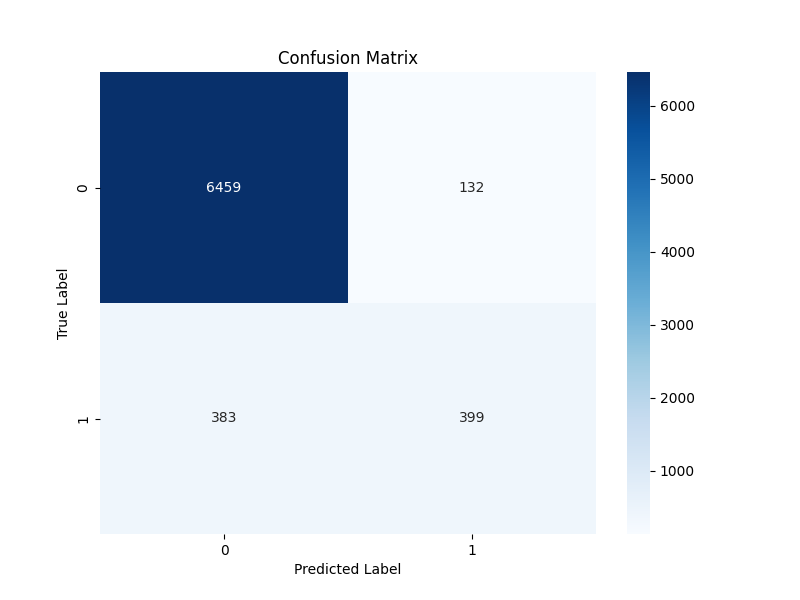
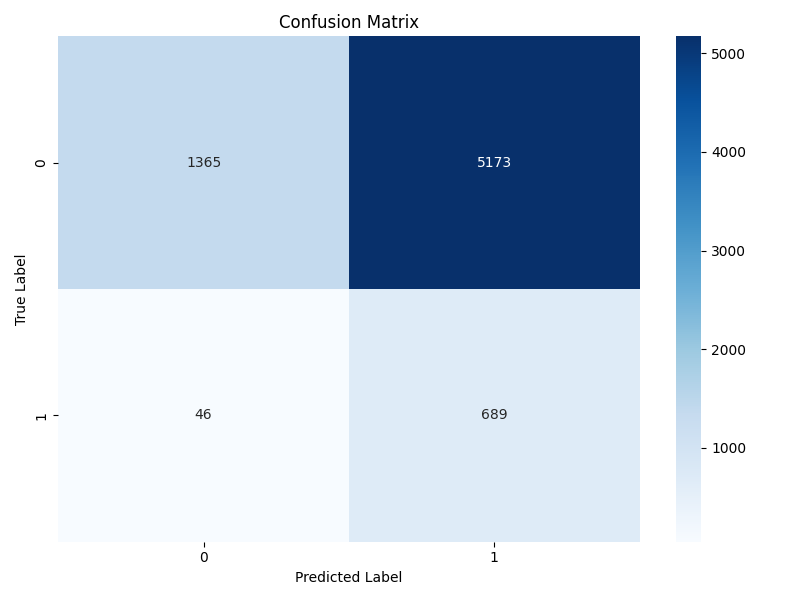
roe

diff --git a/src/logistic_regression_model.py b/src/logistic_regression_model.py
@@ -1,51 +1,125 @@
 import pandas as pd
 import numpy as np
+from sklearn.model_selection import train_test_split
 from sklearn.linear_model import LogisticRegression
+from sklearn.preprocessing import StandardScaler
+from sklearn.impute import SimpleImputer
 from sklearn.metrics import classification_report, confusion_matrix, roc_curve, auc
 import matplotlib.pyplot as plt
 import seaborn as sns
 import os
 
-def train_and_evaluate_model():
-    # Set up absolute paths
-    base_dir = os.path.dirname(os.path.dirname(os.path.abspath(__file__)))
-    data_dir = os.path.join(base_dir, 'data')
-    processed_dir = os.path.join(data_dir, 'processed')
-    figures_dir = os.path.join(base_dir, 'figures')
+# Set paths
+BASE_DIR = '/Users/kevinklatman/Development/Code/ai'
+DATA_DIR = os.path.join(BASE_DIR, 'data')
+FIGURES_DIR = os.path.join(BASE_DIR, 'figures')
+
+# Create figures directory if it doesn't exist
+os.makedirs(FIGURES_DIR, exist_ok=True)
+
+def load_and_prepare_data():
+    """Load the historical features dataset and prepare it for modeling."""
+    # Load data
+    df = pd.read_csv(os.path.join(DATA_DIR, 'pga_tour_historical.csv'))
     
-    # Create figures directory if it doesn't exist
-    os.makedirs(figures_dir, exist_ok=True)
+    # Get feature columns (excluding metadata and target)
+    feature_cols = [col for col in df.columns if '_last_' in col]
     
-    # Load preprocessed data
-    X_train = pd.read_csv(os.path.join(processed_dir, 'X_train.csv'))
-    X_test = pd.read_csv(os.path.join(processed_dir, 'X_test.csv'))
-    y_train = pd.read_csv(os.path.join(processed_dir, 'y_train.csv'))
-    y_test = pd.read_csv(os.path.join(processed_dir, 'y_test.csv'))
+    # Prepare features and target
+    X = df[feature_cols]
+    y = df['is_top_10']
     
-    # Train logistic regression model
-    model = LogisticRegression(random_state=42, max_iter=1000)
-    model.fit(X_train, y_train.values.ravel())
+    # Print class distribution
+    print("\nClass distribution in full dataset:")
+    print(y.value_counts(normalize=True))
+    
+    # Split data
+    X_train, X_test, y_train, y_test = train_test_split(X, y, test_size=0.2, random_state=42, stratify=y)
+    
+    # Handle missing values
+    imputer = SimpleImputer(strategy='mean')
+    X_train_imputed = imputer.fit_transform(X_train)
+    X_test_imputed = imputer.transform(X_test)
+    
+    # Scale features
+    scaler = StandardScaler()
+    X_train_scaled = scaler.fit_transform(X_train_imputed)
+    X_test_scaled = scaler.transform(X_test_imputed)
+    
+    return X_train_scaled, X_test_scaled, y_train, y_test, feature_cols
+
+def train_and_evaluate_model(X_train, X_test, y_train, y_test):
+    """Train logistic regression model and return predictions."""
+    # Calculate class weights
+    n_samples = len(y_train)
+    n_classes = len(np.unique(y_train))
+    class_weights = dict(zip(
+        np.unique(y_train),
+        n_samples / (n_classes * np.bincount(y_train))
+    ))
+    
+    # Train model with class weights
+    model = LogisticRegression(
+        random_state=42,
+        max_iter=1000,
+        class_weight=class_weights,
+        solver='liblinear'
+    )
+    model.fit(X_train, y_train)
     
     # Make predictions
-    y_pred = model.predict(X_test)
     y_pred_proba = model.predict_proba(X_test)[:, 1]
+    threshold = 0.3  # Lower threshold to catch more potential top 10 finishes
+    y_pred = (y_pred_proba >= threshold).astype(int)
     
-    # Print classification report
-    print("\nClassification Report:")
-    print(classification_report(y_test, y_pred))
+    return model, y_pred, y_pred_proba
+
+def plot_feature_importance(model, feature_names, output_path):
+    """Plot feature importance."""
+    importance = pd.DataFrame({
+        'feature': feature_names,
+        'importance': np.abs(model.coef_[0])
+    }).sort_values('importance', ascending=True)
     
-    # Plot confusion matrix
-    plt.figure(figsize=(8, 6))
+    plt.figure(figsize=(12, 8))
+    plt.barh(range(len(importance)), importance['importance'])
+    plt.yticks(range(len(importance)), importance['feature'])
+    plt.xlabel('Absolute Coefficient Value')
+    plt.title('Feature Importance in Predicting Top 10 Finish')
+    plt.tight_layout()
+    plt.savefig(output_path)
+    plt.close()
+    
+    return importance
+
+def plot_confusion_matrix(y_test, y_pred, output_path):
+    """Plot confusion matrix."""
     cm = confusion_matrix(y_test, y_pred)
+    plt.figure(figsize=(8, 6))
     sns.heatmap(cm, annot=True, fmt='d', cmap='Blues')
     plt.title('Confusion Matrix')
     plt.ylabel('True Label')
     plt.xlabel('Predicted Label')
-    plt.savefig(os.path.join(figures_dir, 'confusion_matrix.png'))
+    plt.tight_layout()
+    plt.savefig(output_path)
     plt.close()
-    
-    # Plot ROC curve
-    fpr, tpr, _ = roc_curve(y_test, y_pred_proba)
+
+def plot_probability_distribution(y_test, y_pred_proba, output_path):
+    """Plot probability distribution for actual top 10 vs non-top 10."""
+    plt.figure(figsize=(10, 6))
+    plt.hist(y_pred_proba[y_test == 0], bins=50, alpha=0.5, label='Non-Top 10', density=True)
+    plt.hist(y_pred_proba[y_test == 1], bins=50, alpha=0.5, label='Top 10', density=True)
+    plt.xlabel('Predicted Probability of Top 10 Finish')
+    plt.ylabel('Density')
+    plt.title('Distribution of Predicted Probabilities')
+    plt.legend()
+    plt.tight_layout()
+    plt.savefig(output_path)
+    plt.close()
+
+def plot_roc_curve(y_test, y_pred_proba, output_path):
+    """Plot ROC curve and calculate AUC."""
+    fpr, tpr, thresholds = roc_curve(y_test, y_pred_proba)
     roc_auc = auc(fpr, tpr)
     
     plt.figure(figsize=(8, 6))
@@ -58,29 +132,55 @@ def train_and_evaluate_model():
     plt.ylabel('True Positive Rate')
     plt.title('Receiver Operating Characteristic (ROC) Curve')
     plt.legend(loc="lower right")
-    plt.savefig(os.path.join(figures_dir, 'roc_curve.png'))
-    plt.close()
-    
-    # Analyze feature importance
-    feature_importance = pd.DataFrame({
-        'feature': X_train.columns,
-        'importance': np.abs(model.coef_[0])
-    })
-    feature_importance = feature_importance.sort_values('importance', 
-                                                      ascending=False)
-    
-    plt.figure(figsize=(10, 6))
-    sns.barplot(data=feature_importance, x='importance', y='feature')
-    plt.title('Feature Importance (Absolute Value of Coefficients)')
-    plt.xlabel('Absolute Coefficient Value')
+    plt.grid(True)
     plt.tight_layout()
-    plt.savefig(os.path.join(figures_dir, 'feature_importance.png'))
+    plt.savefig(output_path)
     plt.close()
     
-    print("\nTop Features by Importance:")
-    print(feature_importance)
+    # Print some threshold analysis
+    print("\nThreshold Analysis:")
+    for i in range(len(thresholds)):
+        if i % (len(thresholds) // 5) == 0:  # Print ~5 evenly spaced thresholds
+            print(f"Threshold {thresholds[i]:.2f}: TPR = {tpr[i]:.2f}, FPR = {fpr[i]:.2f}")
     
-    return model, feature_importance
+    return roc_auc
+
+def main():
+    # Load and prepare data
+    X_train, X_test, y_train, y_test, feature_cols = load_and_prepare_data()
+    
+    # Train model and get predictions
+    model, y_pred, y_pred_proba = train_and_evaluate_model(X_train, X_test, y_train, y_test)
+    
+    # Print classification report
+    print("\nClassification Report:")
+    print(classification_report(y_test, y_pred))
+    
+    # Plot feature importance
+    importance = plot_feature_importance(
+        model, feature_cols,
+        os.path.join(FIGURES_DIR, 'feature_importance.png')
+    )
+    print("\nTop Features by Importance:")
+    print(importance.tail(10).to_string())
+    
+    # Plot confusion matrix
+    plot_confusion_matrix(
+        y_test, y_pred,
+        os.path.join(FIGURES_DIR, 'confusion_matrix.png')
+    )
+    
+    # Plot probability distribution
+    plot_probability_distribution(
+        y_test, y_pred_proba,
+        os.path.join(FIGURES_DIR, 'probability_distribution.png')
+    )
+    
+    # Plot ROC curve
+    roc_auc = plot_roc_curve(
+        y_test, y_pred_proba,
+        os.path.join(FIGURES_DIR, 'roc_curve.png')
+    )
 
 if __name__ == "__main__":
-    train_and_evaluate_model()
+    main()
